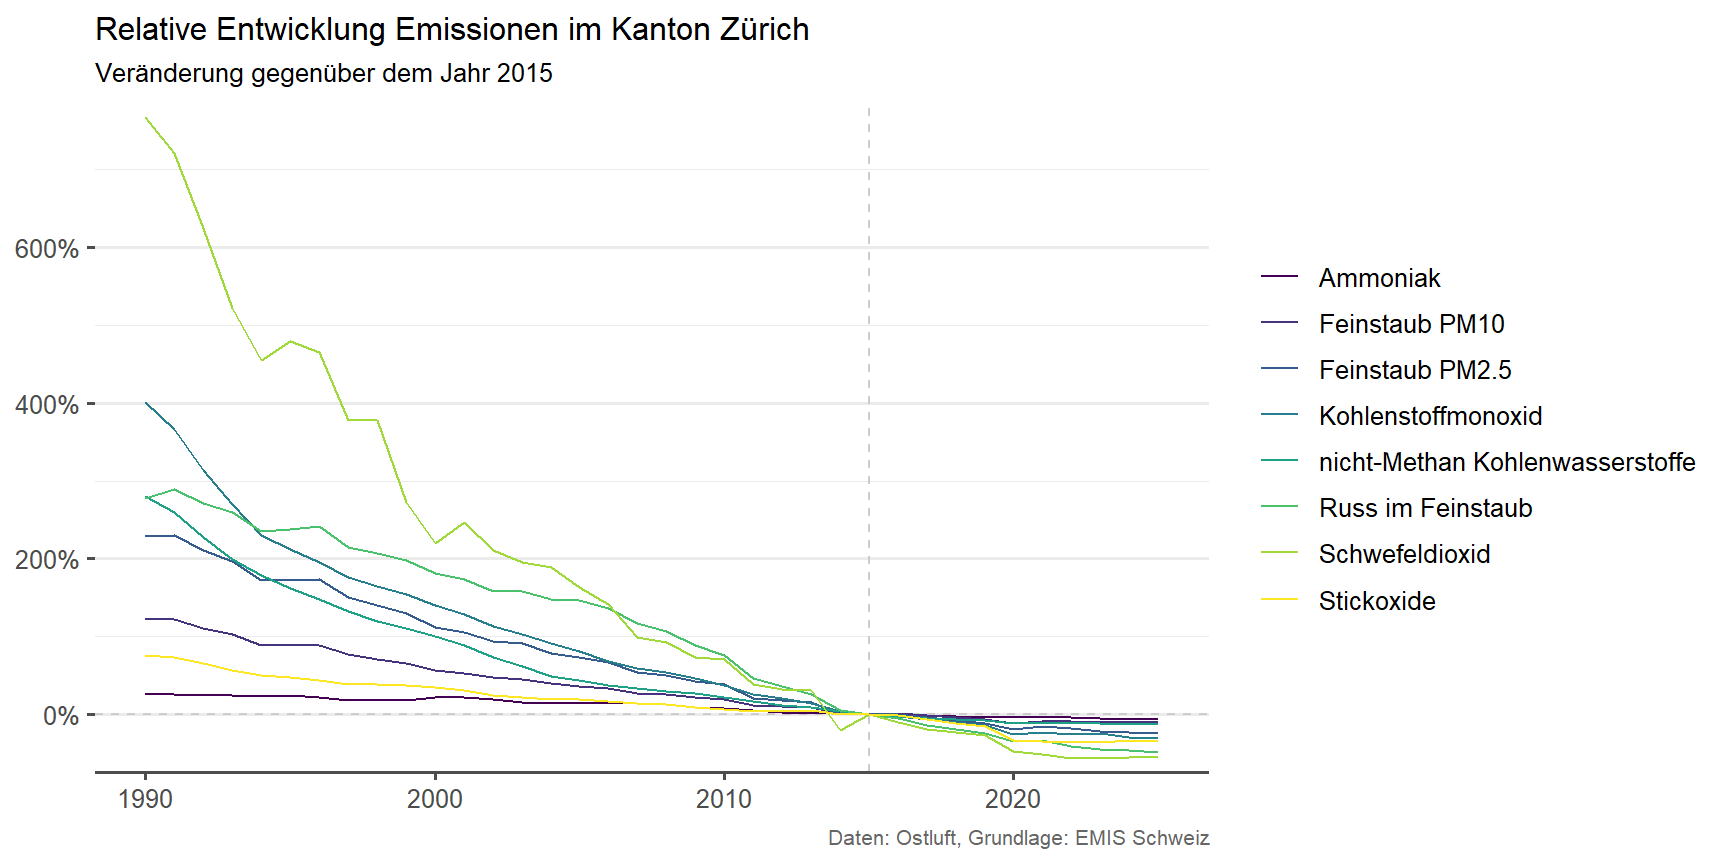
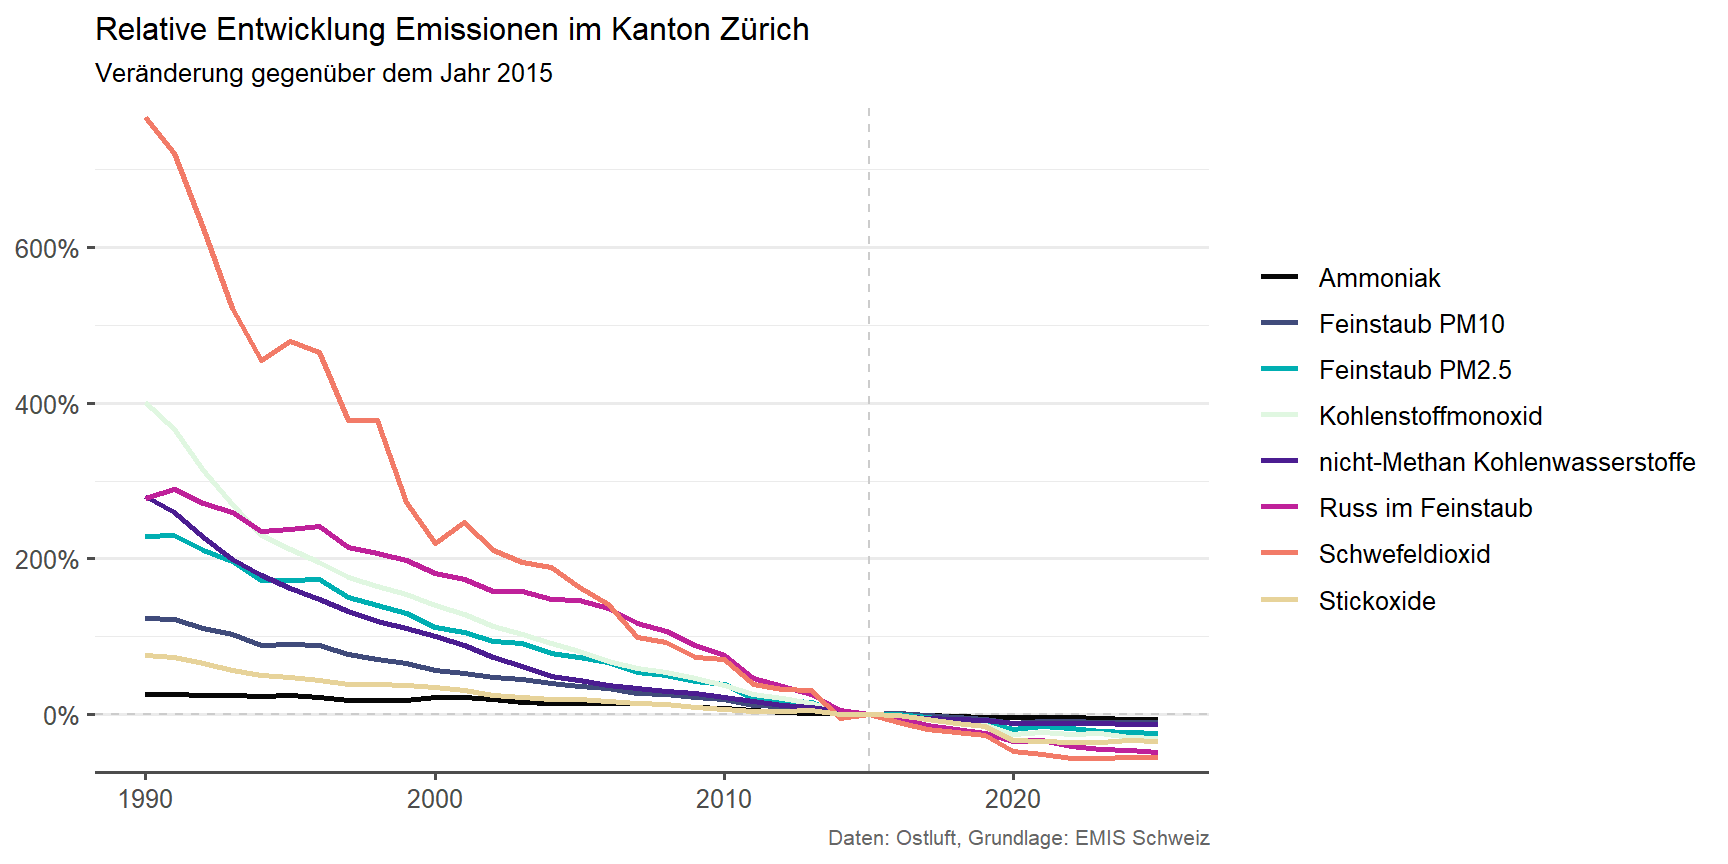
colors rel Emissions

diff --git a/docs/about.html b/docs/about.html
@@ -172,7 +172,7 @@ ul.task-list li input[type="checkbox"] {
     <div>
     <div class="quarto-title-meta-heading">Published</div>
     <div class="quarto-title-meta-contents">
-      <p class="date">19. January 2026</p>
+      <p class="date">21. January 2026</p>
     </div>
   </div>
   
